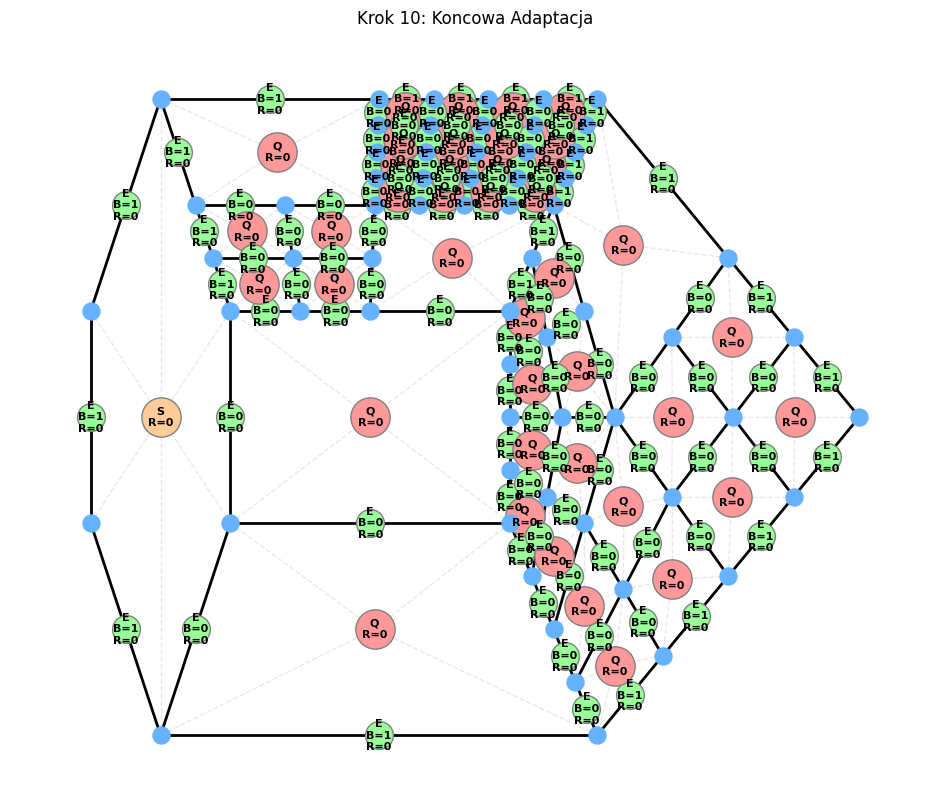
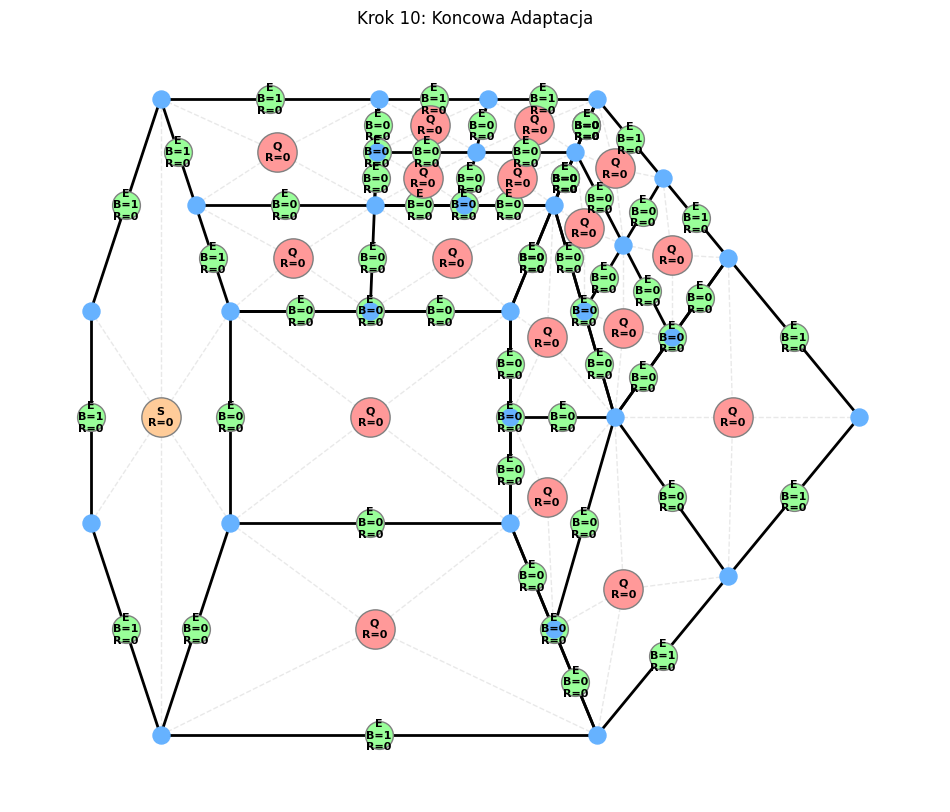
Wywod 5 koniec

diff --git a/run_derivation_g5.py b/run_derivation_g5.py
@@ -1,6 +1,5 @@
 import os
 import math
-from itertools import combinations
 from src.graph import Graph
 from src.utils.visualization import visualize_graph
 from create_hypergraph_g5 import create_hypergraph_g5
@@ -26,7 +25,11 @@ def save_step(graph, step_num, step_name):
     visualize_graph(graph, title, filepath)
 
 def break_all_marked_edges(graph):
-    """Pętla łamiąca krawędzie."""
+    """
+    Pętla łamiąca krawędzie.
+    Działa do skutku, aż żadna produkcja P2/P3/P4 nie będzie miała dopasowania.
+    Nie usuwa ręcznie węzłów - polega na produkcjach.
+    """
     p2, p3, p4 = ProductionP2(), ProductionP3(), ProductionP4()
     while True:
         p2_m = p2.find_lhs(graph)
@@ -36,32 +39,20 @@ def break_all_marked_edges(graph):
         if not (p2_m or p3_m or p4_m):
             break
         
-        if p2_m: p2.apply_rhs(graph, p2_m[0])
+        if p2_m: 
+            print(f"    -> P2 na {p2_m[0].uid}")
+            p2.apply_rhs(graph, p2_m[0])
+            continue
         if p3_m: 
-            target = p3_m[0]
-            p3.apply_rhs(graph, target)
-            try: graph.remove_node(target.uid)
-            except: pass
-        if p4_m: p4.apply_rhs(graph, p4_m[0])
+            print(f"    -> P3 na {p3_m[0].uid}")
+            p3.apply_rhs(graph, p3_m[0])
+            continue
+        if p4_m: 
+            print(f"    -> P4 na {p4_m[0].uid}")
+            p4.apply_rhs(graph, p4_m[0])
+            continue
             
     return graph
-
-def force_mark_edges_of_quad(graph, q_uid):
-    """Agresywnie oznacza krawędzie należące do elementu Q."""
-    print(f"  [FORCE MARK] Oznaczam krawędzie dla {q_uid}...")
-    try:
-        vertices = graph.get_hyperedge_vertices(q_uid)
-        v_ids = {v.uid for v in vertices}
-        count = 0
-        for n, d in graph.nx_graph.nodes(data=True):
-            edge = d.get('data')
-            if isinstance(edge, Hyperedge) and edge.label == "E" and edge.r == 0:
-                neighbors = graph.get_hyperedge_vertices(edge.uid)
-                if len(neighbors) == 2 and neighbors[0].uid in v_ids and neighbors[1].uid in v_ids:
-                    edge.r = 1
-                    count += 1
-        print(f"  [FORCE MARK] Oznaczono {count} krawędzi.")
-    except: pass
 
 def run_derivation():
     print("--- START WYWODU GRUPA 5 ---")
@@ -73,22 +64,31 @@ def run_derivation():
     # ========================================================
     print("\n--- KROK 1: Podział P_right ---")
     
+    # 1. P6: Oznaczenie elementu P
     p6 = ProductionP6()
     matches = p6.find_lhs(graph)
     target = next((m for m in matches if m.uid == "P_right"), None)
-    if target: p6.apply_rhs(graph, target)
-    else: graph.update_hyperedge("P_right", r=1)
-    save_step(graph, "01", "Oznaczenie_P_right")
+    if target: 
+        p6.apply_rhs(graph, target)
+    else: 
+        graph.update_hyperedge("P_right", r=1)
+    
+    save_step(graph, "01", "P6_Oznaczenie_P")
 
+    # 2. P7: Oznaczenie krawędzi P
     p7 = ProductionP7()
     matches = p7.find_lhs(graph)
     target = next((m for m in matches if m.uid == "P_right"), None)
-    if target: p7.apply_rhs(graph, target)
-    save_step(graph, "02", "Oznaczenie_Krawedzi_P")
+    if target: 
+        p7.apply_rhs(graph, target)
+        
+    save_step(graph, "02", "P7_Oznaczenie_Krawedzi")
 
+    # 3. Łamanie krawędzi
     break_all_marked_edges(graph)
     save_step(graph, "03", "Po_Lamaniu_P")
 
+    # 4. P8: Podział P
     p8 = ProductionP8()
     matches = p8.find_lhs(graph)
     target_match = None
@@ -99,41 +99,50 @@ def run_derivation():
 
     if target_match:
         p8.apply_rhs(graph, target_match)
-        save_step(graph, "04", "Podzial_P_right")
+        save_step(graph, "04", "P8_Podzial_P_right")
     else:
         print("BŁĄD: P8 nie widzi P_right!")
 
     # ========================================================
-    # KROK 2: Podział Q_top
+    # KROK 2: Podział Q_top (Górny Czworokąt)
     # ========================================================
     print("\n--- KROK 2: Podział Q_top ---")
     
+    # 1. P0: Oznaczenie Q
     graph.update_hyperedge("Q_top", r=1)
-    save_step(graph, "05", "Oznaczenie_Q_top")
+    save_step(graph, "05", "P0_Oznaczenie_Q_top")
     
-    # Używamy force_mark zamiast P1, żeby obsłużyć połamane krawędzie
-    force_mark_edges_of_quad(graph, "Q_top")
-    save_step(graph, "06", "Oznaczenie_Krawedzi_Q_top")
+    # 2. P1: Oznaczenie krawędzi Q
+    p1 = ProductionP1()
+    matches = p1.find_lhs(graph)
+    target = next((m for m in matches if m.uid == "Q_top"), None)
+    
+    if target:
+        print(f"  Zastosowano P1 na {target.uid}")
+        p1.apply_rhs(graph, target)
+    else:
+        print("  UWAGA: P1 nie chwyciło Q_top automatycznie (może geometria?). Próbuję kontynuować.")
+    
+    save_step(graph, "06", "P1_Oznaczenie_Krawedzi")
         
-    print("  Łamanie krawędzi Q_top...")
     break_all_marked_edges(graph)
     save_step(graph, "07", "Po_Lamaniu_Q_top")
     
+    # 4. P5: Podział Q
     p5 = ProductionP5()
     matches = p5.find_lhs(graph)
     target = next((m for m in matches if m.uid == "Q_top"), None)
     if target:
         p5.apply_rhs(graph, target)
-        save_step(graph, "08", "Podzial_Q_top_Gotowy")
+        save_step(graph, "08", "P5_Podzial_Q_top")
     else:
         print("BŁĄD: P5 nie widzi Q_top!")
 
     # ========================================================
-    # KROK 3: Podział sub-Q
+    # KROK 3: Podział sub-Q (Prawy Górny w Q_top)
     # ========================================================
-    print("\n--- KROK 3: Podział sub-Q w Q_top ---")
+    print("\n--- KROK 3: Podział sub-Q ---")
     
-    # Cel: Prawy górny róg Q_top (x>6, y>12.5)
     best_q = None
     for n, d in graph.nx_graph.nodes(data=True):
         obj = d.get('data')
@@ -142,51 +151,66 @@ def run_derivation():
             cx = sum(v.x for v in vs)/len(vs)
             cy = sum(v.y for v in vs)/len(vs)
             if cx > 6.0 and cy > 12.5: 
-                best_q = obj
-                break
+                best_q = obj; break
     
     if best_q:
         print(f"  Wybrano sub-Q: {best_q.uid}")
         graph.update_hyperedge(best_q.uid, r=1)
-        force_mark_edges_of_quad(graph, best_q.uid)
-        break_all_marked_edges(graph)
         
-        matches = p5.find_lhs(graph)
+        matches = p1.find_lhs(graph) # P1
         tgt = next((m for m in matches if m.uid == best_q.uid), None)
-        if tgt: p5.apply_rhs(graph, tgt)
-        save_step(graph, "09", "Podzial_Sub_Q_top")
+        if tgt: p1.apply_rhs(graph, tgt)
+        
+        break_all_marked_edges(graph) # Break
+        
+        matches = p5.find_lhs(graph) # P5
+        tgt = next((m for m in matches if m.uid == best_q.uid), None)
+        if tgt: 
+            p5.apply_rhs(graph, tgt)
+            save_step(graph, "09", "P5_Podzial_Sub_Q")
     else:
-        print("  Nie znaleziono sub-Q!")
+        print("BŁĄD: Nie znaleziono sub-Q!")
 
     # ========================================================
-    # KROK 4: Adaptacja
+    # KROK 4: Adaptacja (Sąsiad z P_right)
     # ========================================================
     print("\n--- KROK 4: Adaptacja ---")
     
-    candidates = []
-    p1 = ProductionP1()
+    target_adapt_point = (11.25, 12.5)
+    cand_q = None
+    min_dist = float('inf')
+
     for n, d in graph.nx_graph.nodes(data=True):
         obj = d.get('data')
         if isinstance(obj, Hyperedge) and obj.label == 'Q' and obj.r == 0:
-            obj.r = 1 
-            if p1.find_lhs(graph, target_id=obj.uid):
-                candidates.append(obj)
-            else:
-                obj.r = 0 
-                
-    if candidates:
-        for cand in candidates:
-            print(f"  Adaptacja: {cand.uid}")
-            force_mark_edges_of_quad(graph, cand.uid)
-            break_all_marked_edges(graph)
-            
-            ms = p5.find_lhs(graph)
-            t = next((m for m in ms if m.uid == cand.uid), None)
-            if t: p5.apply_rhs(graph, t)
-            
-        save_step(graph, "10", "Koncowa_Adaptacja")
+            if str(obj.uid).startswith("Q_P_right"):
+                vs = graph.get_hyperedge_vertices(obj.uid)
+                cx = sum(v.x for v in vs)/len(vs)
+                cy = sum(v.y for v in vs)/len(vs)
+                dist = math.sqrt((cx - target_adapt_point[0])**2 + (cy - target_adapt_point[1])**2)
+                if dist < min_dist:
+                    min_dist = dist
+                    cand_q = obj
+
+    if cand_q:
+        print(f"  Adaptacja elementu: {cand_q.uid}")
+        graph.update_hyperedge(cand_q.uid, r=1)
+        
+        matches = p1.find_lhs(graph)
+        tgt = next((m for m in matches if m.uid == cand_q.uid), None)
+        if tgt: p1.apply_rhs(graph, tgt)
+        
+        break_all_marked_edges(graph)
+        
+        ms = p5.find_lhs(graph)
+        t = next((m for m in ms if m.uid == cand_q.uid), None)
+        if t: 
+            p5.apply_rhs(graph, t)
+            save_step(graph, "10", "Koncowa_Adaptacja")
+        else:
+            print("  BŁĄD: P5 nie zadziałało na adaptowany element.")
     else:
-        print("  Brak elementów wymagających adaptacji.")
+        print("  Brak elementu do adaptacji.")
 
     print("--- KONIEC ---")
 

diff --git a/create_hypergraph_g5.py b/create_hypergraph_g5.py
@@ -17,35 +17,25 @@ def create_hypergraph_g5():
         g.add_vertex(Vertex(uid=uid, x=x, y=y))
 
     # --- KRAWĘDZIE ---
-    # Directions aligned to form proper cycles where possible
+    # b=0: Wnętrze, b=1: Brzeg
+    # E13 (9-11) jest b=0, bo to styk Q_top i P_right
     edges = [
-        # Dół (Q_bottom)
+        # Q_bottom
         ("E1", "1", "2", 1), 
         ("E2", "1", "3", 1), 
         ("E3", "1", "4", 0),   
-        
-        # Środek (Q_center)
         ("E4", "4", "5", 0),   
         ("E5", "2", "5", 0),   
-        
-        # P_right
         ("E6", "2", "6", 1), 
-        
-        # S_left
         ("E7", "3", "7", 1), 
         ("E8", "4", "8", 0),   
-        
-        # Q_center
-        ("E9", "8", "9", 0),   # 8->9
+        ("E9", "8", "9", 0),   
         ("E10", "5", "9", 0),  
-        
-        # Q_top (8,9,11,10) - Cycle: 8->9->11->10->8
-        ("E13", "9", "11", 1), # 9->11 (Boundary)
-        ("E14", "11", "10", 1),# 11->10 (Boundary) - FIXED DIRECTION
-        ("E11", "10", "8", 1), # 10->8 (Boundary) - FIXED DIRECTION
-        
-        ("E12", "7", "10", 1), # S_left top
-        ("E15", "6", "11", 1)  # P_right top
+        ("E11", "8", "10", 1), 
+        ("E12", "7", "10", 1), 
+        ("E13", "9", "11", 0), # KLUCZOWE: b=0
+        ("E14", "10", "11", 1),
+        ("E15", "6", "11", 1)  
     ]
 
     for uid, u, v, b in edges:
@@ -53,29 +43,29 @@ def create_hypergraph_g5():
         g.connect(uid, u)
         g.connect(uid, v)
 
-    # --- ELEMENTY (INTERIORS) ---
+    # --- ELEMENTY ---
     
-    # 1. Q_bottom
+    # Q_bottom
     q_bottom = Hyperedge(uid="Q_bottom", label="Q", r=0, b=0)
     g.add_hyperedge(q_bottom)
     for v in ["1", "2", "5", "4"]: g.connect("Q_bottom", v)
 
-    # 2. Q_center
+    # Q_center
     q_center = Hyperedge(uid="Q_center", label="Q", r=0, b=0)
     g.add_hyperedge(q_center)
     for v in ["4", "5", "9", "8"]: g.connect("Q_center", v)
 
-    # 3. Q_top (8, 9, 11, 10)
+    # Q_top (8,9,11,10)
     q_top = Hyperedge(uid="Q_top", label="Q", r=0, b=0)
     g.add_hyperedge(q_top)
     for v in ["8", "9", "11", "10"]: g.connect("Q_top", v)
 
-    # 4. S_left
+    # S_left
     s_left = Hyperedge(uid="S_left", label="S", r=0, b=0)
     g.add_hyperedge(s_left)
     for v in ["1", "4", "8", "10", "7", "3"]: g.connect("S_left", v)
 
-    # 5. P_right (2, 6, 11, 9, 5)
+    # P_right (2,6,11,9,5)
     p_right = Hyperedge(uid="P_right", label="P", r=0, b=0)
     g.add_hyperedge(p_right)
     for v in ["2", "6", "11", "9", "5"]: g.connect("P_right", v)
